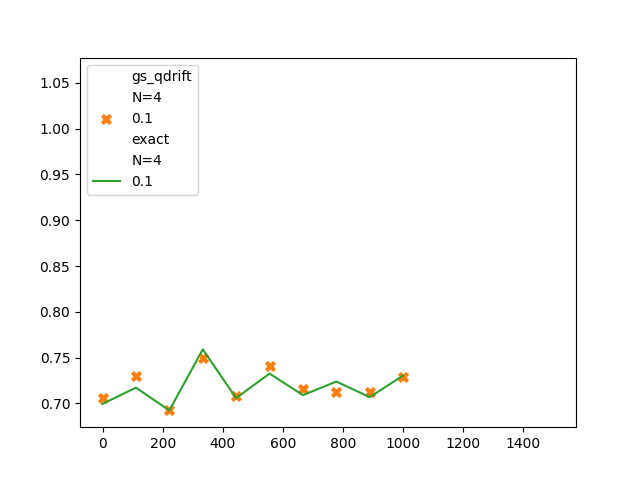
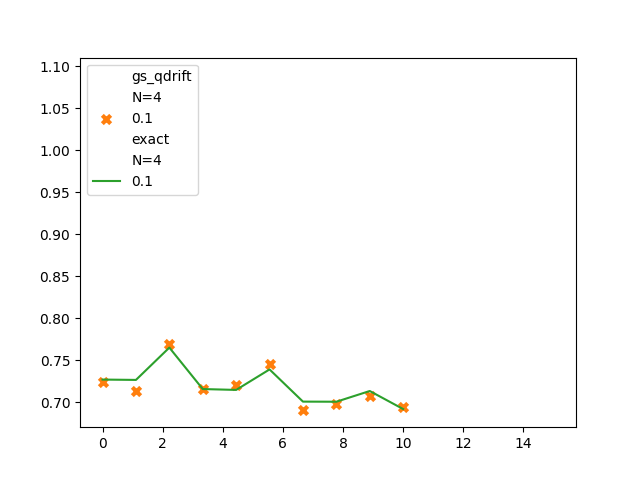
gs_qdrift works

diff --git a/ising/simulation/trotter/gs_qdrift.py b/ising/simulation/trotter/gs_qdrift.py
@@ -6,7 +6,7 @@ from numpy.typing import NDArray
 from qiskit.quantum_info import Pauli
 from qiskit.circuit import Parameter
 
-from ising.hamiltonian import Hamiltonian, trotter_reps, general_grouping
+from ising.hamiltonian import Hamiltonian, general_grouping
 from ising.hamiltonian import Hamiltonian, general_grouping, qdrift_count
 from ising.hamiltonian.hamiltonian import substitute_parameter
 from ising.utils import MAXSIZE
@@ -14,8 +14,6 @@ from ising.utils import MAXSIZE
 from ising.simulation.trotter import GroupedLie
 from ising.simulation.trotter.grouped_lie import (
     get_grouped_coeffs,
-    club_into_groups,
-    clubbed_evolve,
 )
 from ising.simulation.trotter.grouped_lie import get_grouped_coeffs
 
@@ -43,6 +41,7 @@ def club_same_terms(terms: NDArray[np.int64]) -> list[tuple[int, int]]:
 class GSQDriftCircuit:
     def __init__(self, ham: Hamiltonian, h: Parameter, error: float):
         self.ham = ham
+        self.num_qubits = ham.sparse_repr.num_qubits
         self.error = error
         self.ham_subbed: Optional[Hamiltonian] = None
 
@@ -53,19 +52,12 @@ class GSQDriftCircuit:
         self.synthesizer = GroupedLie(reps=1)
         self.groups = general_grouping(self.ham.sparse_repr.paulis)
 
-        inds = []
-        ind_count = 0
         group_map = {}
         for g_ind, group in enumerate(self.groups):
-            for p_ind, _ in enumerate(group):
-                group_map[ind_count] = (p_ind, g_ind)
-                inds.append(ind_count)
-                ind_count += 1
             for p_ind, pauli in enumerate(group):
                 group_map[pauli] = (p_ind, g_ind)
 
         self.group_map = group_map
-        self.order = club_into_groups(inds, group_map)
 
         self.group_mapping = self.synthesizer.svd_map(self.groups)
         self._eigvals = [x[0] for x in self.group_mapping]
@@ -74,7 +66,11 @@ class GSQDriftCircuit:
 
     @property
     def ground_state(self) -> NDArray:
-@ -52,13 +68,30 @@ class GSQDriftCircuit:
+        if self.ham_subbed is None:
+            raise ValueError(
+                "h value has not been substituted, qiskit does not support parametrized Hamiltonians."
+            )
+        return self.ham_subbed.ground_state
 
     def subsitute_h(self, h_val: float) -> None:
         self.ham_subbed = substitute_parameter(self.ham, self.h, h_val)
@@ -108,7 +104,7 @@ class GSQDriftCircuit:
 
     def construct_parametrized_circuit(self) -> None:
         if self.ham_subbed is None:
-@ -66,36 +99,61 @@ class GSQDriftCircuit:
+            raise ValueError(
                 "h value has not been substituted, qiskit does not support parametrized Hamiltonians."
             )
 
@@ -129,9 +125,6 @@ class GSQDriftCircuit:
             @ eig_inv
         )
 
-        eig_val = self.group_mapping[g_ind][0][p_ind]
-        eig_vec = self.group_mapping[g_ind][1]
-        eig_inv = self.group_mapping[g_ind][2]
     @lru_cache(maxsize=MAXSIZE)
     def group_matrix(self, g_ind: int, time: float, reps: int) -> NDArray:
         eig_sum = self.eig_sums[g_ind]
@@ -139,34 +132,23 @@ class GSQDriftCircuit:
         eig_inv = self.svd_map[g_ind][2]
 
         return (
-            eig_vec @ np.diag(np.exp(complex(0, -1) * time / reps * eig_val)) @ eig_inv
             eig_vec
             @ np.diag(np.exp(complex(0, -1) * (time / reps) * eig_sum))
             @ eig_inv
         )
 
-    def matrix(self, time: float) -> NDArray:
-        """
-        Lie Trotter is a deterministic method of generation, using grouping we
-        can do the following:
-        e^P11 e^P12 ... e^Pmn = V_1 (l_1 + l_2 ...) V_1^t V_2 ... V_2^t ...
     @lru_cache(maxsize=MAXSIZE)
     def club_matrix(self, club: tuple[int, int], time: float, reps: int) -> NDArray:
         g_ind, count = club
         single = self.group_matrix(g_ind, time, reps)
         return np.linalg.matrix_power(single, count)
 
-        This is faster if the number of groups are less.
-        """
     def matrix(self, time: float) -> NDArray:
         if self.ham_subbed is None:
             raise ValueError("h value has not been substituted.")
-        if self.group_mapping is None:
         if self.pauli_mapping is None:
             raise ValueError("Para circuit has not been constructed.")
-        reps = trotter_reps(self.ham_subbed.sparse_repr, time, self.error)
 
-        print(f"{time}:{reps}")
         # Sampling
         count = qdrift_count(self.lambd, time, self.error)
         samples = np.random.choice(self.indices, p=self.probs, size=count).astype(int)
@@ -176,13 +158,20 @@ class GSQDriftCircuit:
         final_op = np.identity(2**self.num_qubits).astype(np.complex128)
         print(f"{time}:{count}")
 
-        final_op = clubbed_evolve(self.order, self.group_mapping, time / reps)
         for club in clubs:
             group_op = self.club_matrix(club, self.lambd * time, count)
             final_op = np.dot(group_op, final_op)
 
-        return np.linalg.matrix_power(final_op, reps)
         return final_op
 
     def get_observations(
         self, rho_init: NDArray, observable: NDArray, times: list[float]
+    ):
+        results = []
+        for time in times:
+            unitary = self.matrix(time)
+            rho_final = unitary @ rho_init @ unitary.conj().T
+            result = np.trace(np.abs(observable @ rho_final))
+            results.append(result)
+
+        return results
